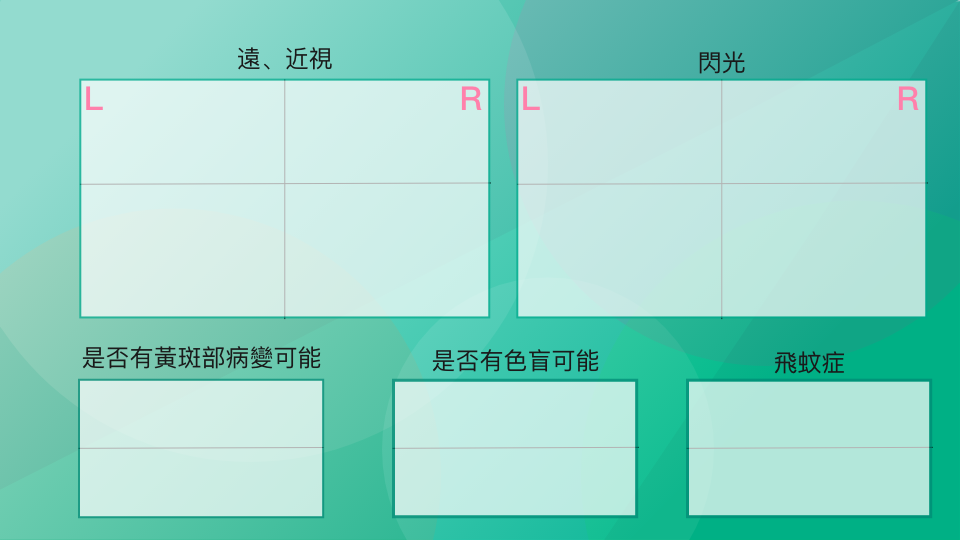
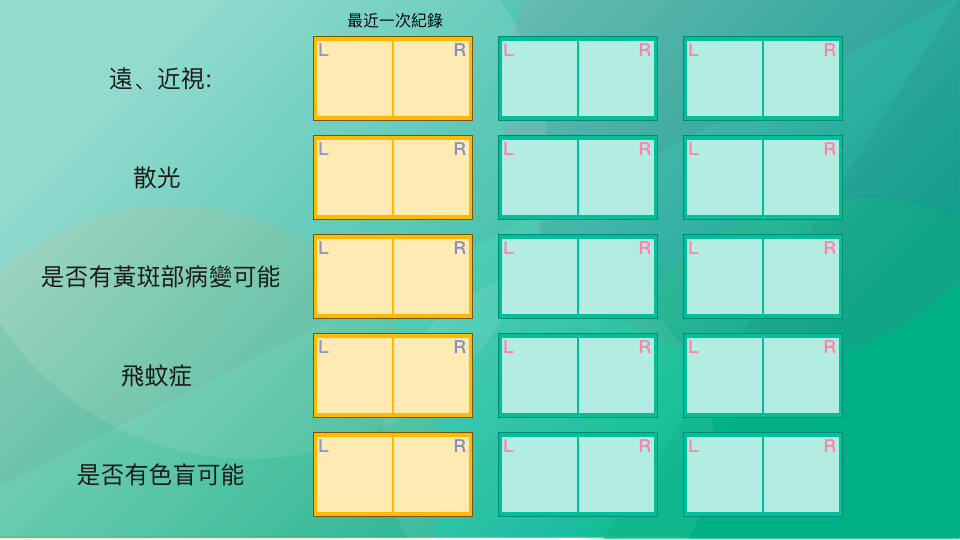
history page style changed

diff --git a/history.html b/history.html
@@ -4,46 +4,73 @@
   <style>
     .div_left1 {
       position: absolute;
-      top: 88px;
-      left: 120px
+      top: 40px;
+      left: 330px;
     }
 
     .div_left2 {
       position: absolute;
-      top: 100px;
+      top: 40px;
+      left:515px;
+    }
+
+    .div_left3 {
+      position: absolute;
+      top: 40px;
+      left:700px;
     }
 
     .div_right1 {
       position: absolute;
-      top: 88PX;
-      right: 620px;
+      top: 40PX;
+      left: 410px;
     }
 
     .div_right2 {
       position: absolute;
-      top: 100px;
+      top: 40px;
+      left:595px;
     }
+    .div_right3 {
+      position: absolute;
+      top: 40px;
+      left:780px;
+    }
+
 
     .div_flash_left1 {
       position: absolute;
-      top: 88px;
-      right: 340px;
+      top: 140px;
+      left: 330px;
     }
 
     .div_flash_left2 {
       position: absolute;
-      top: 100px;
+      top: 140px;
+      left: 515px;
+    }
+
+    .div_flash_left3 {
+      position: absolute;
+      top: 140px;
+      left: 700px;
     }
 
     .div_flash_right1 {
       position: absolute;
-      top: 88px;
-      right: 150px;
+      top: 140px;
+      left: 410px;
     }
 
     .div_flash_right2 {
       position: absolute;
-      top: 100px;
+      top: 140px;
+      left: 595px;
+    }
+    .div_flash_right3 {
+      position: absolute;
+      top: 140px;
+      left: 780px;
     }
 
 
@@ -51,6 +78,10 @@
       position: absolute;
       top: -4;
       left: -9;
+    }
+
+    h1,h2{
+      font-family:Microsoft JhengHei;
     }
   </style>
 </head>
@@ -60,33 +91,37 @@
     <a href="index.html"><img class="p" style="cursor:pointer" src="images/btn_backtohome.png"></a>
   </div>
   <div class="div_left1">
-    <h1 id="eye_left1"></h1>
+    <h1 id="eye_left1"></h1></div>
     <div class="div_left2">
-      <h2 id="eye_left2"></h2>
-      <h2 id="eye_left3"></h2>
+      <h1 id="eye_left2"></h1></div>
+    <div class="div_left3">
+      <h1 id="eye_left3"></h1>
     </div>
-  </div>
+
   <div class="div_right1">
-    <h1 id="eye_right1"></h1>
+    <h1 id="eye_right1"></h1></div>
     <div class="div_right2">
-      <h2 id="eye_right2"></h2>
-      <h2 id="eye_right3"></h2>
+      <h1 id="eye_right2"></h1></div>
+    <div class="div_right3">
+      <h1 id="eye_right3"></h1>
     </div>
-  </div>
+
   <div class="div_flash_left1">
-    <h1 id="eye_flash_left1"></h1>
+    <h2 id="eye_flash_left1"></h2></div>
     <div class="div_flash_left2">
-      <h2 id="eye_flash_left2"></h2>
+      <h2 id="eye_flash_left2"></h2></div>
+    <div class="div_flash_left3">
       <h2 id="eye_flash_left3"></h2>
     </div>
-  </div>
+
   <div class="div_flash_right1">
-    <h1 id="eye_flash_right1"></h1>
+    <h2 id="eye_flash_right1"></h2></div>
     <div class="div_flash_right2">
-      <h2 id="eye_flash_right2"></h2>
+      <h2 id="eye_flash_right2"></h2></div>
+      <div class="div_flash_right3">
       <h2 id="eye_flash_right3"></h2>
     </div>
-  </div>
+
 
   <script src="https://www.gstatic.com/firebasejs/5.9.0/firebase.js"></script>
   <script src="https://www.gstatic.com/firebasejs/5.9.0/firebase-app.js"></script>

diff --git a/index.html b/index.html
@@ -216,9 +216,9 @@
   </div>
 
 
-  <a href="eyetest.html"><button class="button" id="starttest" style="margin-left:7.6%;margin-top:41%"><span>智慧驗光 </span></button></a>
-  <a href="eyeinfor.html"><button class="button2" id="btn_relaxureye" style="margin-left:25.3%">病理知識</button></a>
-  <a href="registered.html"><button class="button2" id="btn_registration" style="margin-left:3%">眼科掛號</button></a>
+  <a href="eyetest.html"><button class="button" id="starttest" style="font-family:Microsoft JhengHei;margin-left:7.6%;margin-top:41%"><span>智慧驗光 </span></button></a>
+  <a href="eyeinfor.html"><button class="button2" id="btn_relaxureye" style="font-family:Microsoft JhengHei;margin-left:25.3%">病理知識</button></a>
+  <a href="registered.html"><button class="button2" id="btn_registration" style="font-family:Microsoft JhengHei;margin-left:3%">眼科掛號</button></a>
   <div class="p">
     <img  style="cursor:pointer" onclick="logout()" src="images/btn_logout1.png">
   </div>

diff --git a/registered.html b/registered.html
@@ -57,12 +57,12 @@
     <div>
       <input type="checkbox" id="subscribeNews" name="subscribe" value="newsletter">
       <label for="subscribeNews">是</label>
-      <button type="submit">去測驗</button>
+      <button type="submit" style="font-family:Microsoft JhengHei">去測驗</button>
     </div>
   </div>
 
-  <a href="chooseclinic.html"><button class="button2" id="btn_relaxureye" style="margin-left:60%;margin-top:6%">診所掛號</button></a>
-  <a href="localmedicalrecord.html"><button class="button2" id="btn_registration" style="margin-left:3%">住家看診</button></a>
+  <a href="chooseclinic.html"><button class="button2" id="btn_relaxureye" style="font-family:Microsoft JhengHei;margin-left:60%;margin-top:6%">診所掛號</button></a>
+  <a href="localmedicalrecord.html"><button class="button2" id="btn_registration" style="font-family:Microsoft JhengHei;margin-left:3%">住家看診</button></a>
 
   <script src="registered.js"></script>
 
